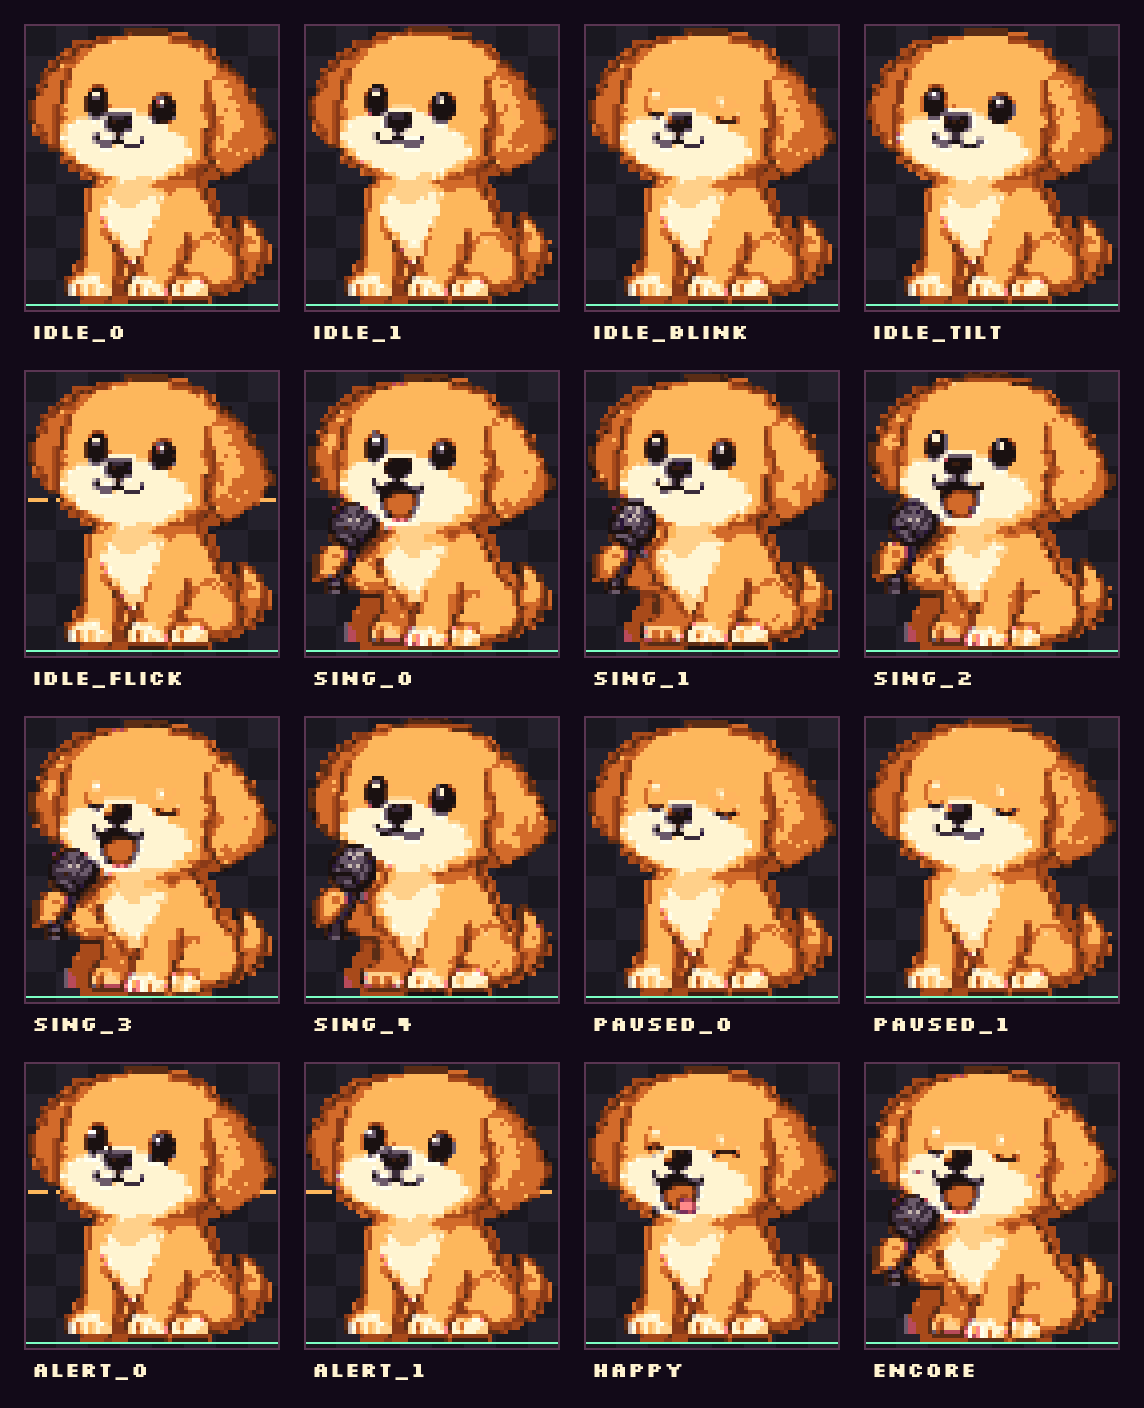
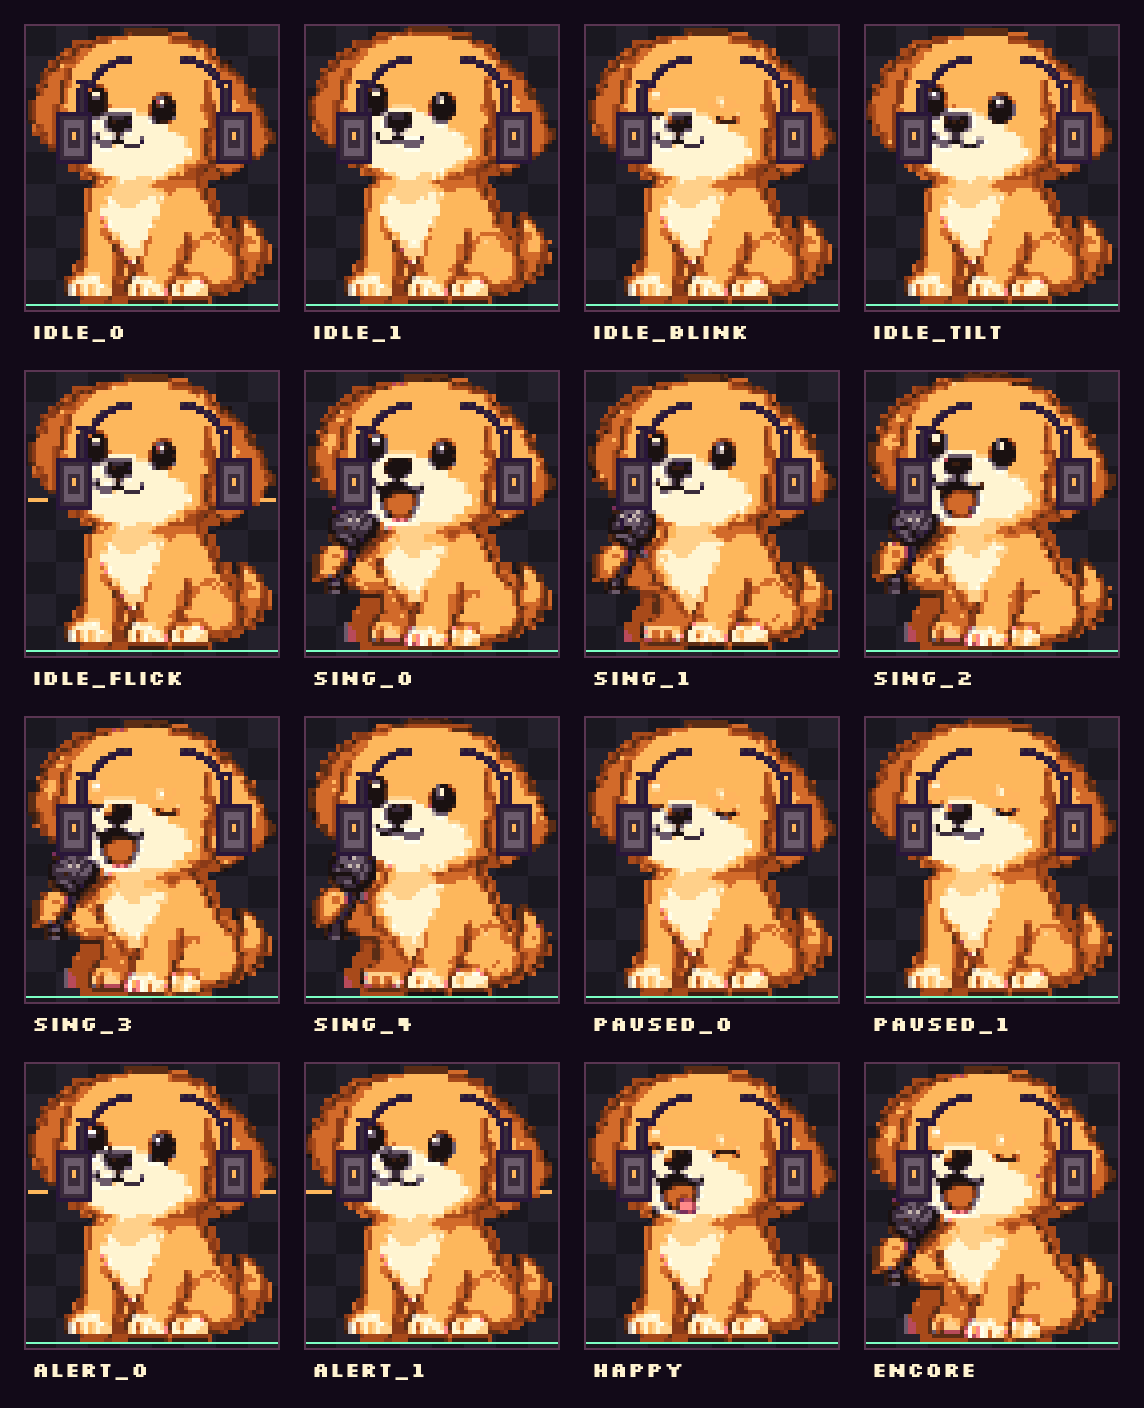
checkpoint 6b - art quality

diff --git a/source/scripts/generate_den_room_art.py b/source/scripts/generate_den_room_art.py
@@ -222,6 +222,30 @@ class Canvas:
             self.bayer_rect((x0, y0, x1, y1), INK, 0.28)
 
 
+def _leaf(c: Canvas, x: int, y: int, flip: int = 1) -> None:
+    """A tiny hard-edged leaf, never anti-aliased or semi-transparent."""
+    x0 = min(x, x + 3 * flip)
+    x1 = max(x, x + 3 * flip)
+    c.rect((x0, y, x1, y + 1), MINT_MID)
+    c.px(x0 + (1 if flip > 0 else 2), y, MINT_LIGHT)
+    c.px(x1 - (1 if flip > 0 else 0), y + 1, MINT_DARK)
+
+
+def _vine(c: Canvas, x: int, y: int, length: int, drift: int, seed: int) -> None:
+    """A stepped ivy strand with sparse leaves; stays on the pixel grid."""
+    for i in range(max(1, length)):
+        xx = int(round(x + math.sin(i * 0.30 + seed) * drift))
+        yy = y + i
+        c.px(xx, yy, MINT_DARK)
+        if i % 3 == 0:
+            c.px(xx + 1, yy, MINT_MID)
+        if i % 6 == 2:
+            side = 1 if (i // 6) % 2 == 0 else -1
+            _leaf(c, xx + (3 if side > 0 else -4), yy, side)
+        if i % 11 == 5:
+            c.px(xx + 2, yy + 1, MINT_LIGHT)
+
+
 def _build_room() -> Canvas:
     c = Canvas()
     d = c.d
@@ -283,10 +307,12 @@ def _build_room() -> Canvas:
     c.speckle(0, 186, 400, 250, ("#1B0D1F", "#4A2840", "#32182F"), 150, 7)
 
     # ── Three light sources: window, CRT, lamp ────────────────────────────────
-    c.light_pool(196, 92, 92, 64, BLUE_MID, 0.62, 0)
+    c.light_pool(200, 96, 98, 70, GOLD_DARK, 0.28, 0)
+    c.light_pool(204, 120, 84, 48, ORANGE_DARK, 0.16, 2)
     c.light_pool(68, 118, 52, 50, MINT_MID, 0.37, 1)
-    c.light_pool(276, 124, 34, 82, GOLD_DARK, 0.42, 2)
-    c.light_pool(276, 190, 32, 18, GOLD_DARK, 0.35, 3)
+    c.light_pool(276, 124, 38, 88, GOLD_MID, 0.44, 2)
+    c.light_pool(276, 190, 34, 20, GOLD_LIGHT, 0.28, 3)
+    c.light_pool(276, 72, 24, 22, GOLD_LIGHT, 0.20, 1)
 
     # ── City window ──────────────────────────────────────────────────────────
     c.contact_shadow(122, 130, 277, 136, "half")
@@ -300,56 +326,70 @@ def _build_room() -> Canvas:
             c.px(fx + 1, 40, FAB_LIGHT)
         c.rect((x0 - 1, 91, x0 + 10, 95), GOLD_MID)
         c.line([(x0 - 1, 91), (x0 + 10, 91)], GOLD_LIGHT)
-    # sky
-    c.rect((132, 39, 265, 126), BLUE_DARK)
-    for y in range(40, 127, 8):
-        c.rect((132, y, 265, y + 7), BLUE_MID if y > 70 else BLUE_DARK)
-    c.bayer_rect((132, 88, 265, 126), BLUE_LIGHT, 0.22)
-    # moon + stars: a stepped crescent with a sparse dithered halo
-    moon = ((252, 47), (254, 46), (256, 47), (258, 49), (259, 51),
-            (259, 54), (258, 57), (256, 59), (253, 60), (250, 59),
-            (248, 57), (247, 54), (247, 51))
-    for mx, my in moon:
-        c.px(mx, my, CREAM_LIGHT)
-    c.rect((253, 48, 257, 51), CREAM_LIGHT)
-    c.rect((255, 52, 258, 55), CREAM_LIGHT)
-    c.rect((254, 56, 256, 58), CREAM_MID)
-    c.rect((251, 52, 254, 57), BLUE_DARK)
-    c.rect((250, 54, 253, 57), BLUE_MID)
-    c.px(249, 53, CREAM_LIGHT)
-    c.checker((242, 42, 266, 66), CREAM_LIGHT, 0.055)
-    c.px(243, 61, CREAM_MID)
-    c.px(262, 63, MINT_LIGHT)
-    c.px(238, 49, CREAM_MID)
-    stars = ((141, 50), (154, 60), (167, 46), (185, 55), (198, 45),
-             (212, 59), (226, 48), (238, 70), (174, 69), (149, 80),
-             (195, 79), (218, 84), (257, 82))
-    for sx, sy in stars:
-        col = MINT_LIGHT if (sx + sy) % 3 == 0 else CREAM_MID
-        c.px(sx, sy, col)
-        if (sx + sy) % 4 == 0:
-            c.px(sx - 1, sy, col)
-            c.px(sx + 1, sy, col)
-            c.px(sx, sy - 1, col)
-            c.px(sx, sy + 1, col)
+    # Sunset sky: hard bands plus Bayer transitions, a low sun, and warm
+    # cloud ribbons. This is the room's main light source.
+    c.rect((132, 39, 265, 126), PURPLE_DARK)
+    bands = (
+        (39, 54, PURPLE_DARK, PURPLE_MID, 0.16),
+        (54, 68, PURPLE_MID, MAGENTA, 0.22),
+        (68, 80, MAGENTA, ORANGE_MID, 0.24),
+        (80, 92, ORANGE_MID, ORANGE_LIGHT, 0.30),
+        (92, 104, ORANGE_LIGHT, GOLD_LIGHT, 0.32),
+        (104, 116, GOLD_MID, ORANGE_MID, 0.26),
+        (116, 126, ORANGE_DARK, PURPLE_DARK, 0.20),
+    )
+    for y0, y1, base, warm, density in bands:
+        c.rect((132, y0, 265, y1 - 1), base)
+        c.bayer_rect((132, y0, 265, y1), warm, density, y0)
+    # A low sun just above the skyline, with a stepped halo.
+    sun_cx, sun_cy, sun_r = 200, 92, 8
+    for y in range(sun_cy - sun_r - 5, sun_cy + sun_r + 6):
+        for x in range(sun_cx - sun_r - 7, sun_cx + sun_r + 8):
+            dx = (x - sun_cx) / float(sun_r)
+            dy = (y - sun_cy) / float(sun_r)
+            dist = dx * dx + dy * dy
+            if dist <= 1.0:
+                c.px(x, y, CREAM_LIGHT if dist < 0.55 else GOLD_GLOW)
+            elif dist <= 2.4 and BAYER[(y + 1) % 4][(x + 2) % 4] / 15.0 < 0.38:
+                c.px(x, y, GOLD_LIGHT if dist < 1.8 else ORANGE_LIGHT)
+    # Cloud ribbons, broken so the sun reads through them.
+    for cy, col, hi in ((66, MAGENTA, ROSE_MID), (71, FAB_MID, ORANGE_MID),
+                        (77, MAGENTA, ORANGE_LIGHT), (101, ORANGE_MID, GOLD_LIGHT)):
+        start = 134 + ((cy * 7) % 12)
+        for x in range(start, 264, 3):
+            line_len = 2 + (x % 5)
+            if (x + cy) % 11 < 7:
+                c.line([(x, cy), (x + line_len, cy)], col)
+                if (x + cy) % 5 == 0:
+                    c.px(x + line_len, cy - 1, hi)
+    # A few birds or heat sparks, kept sparse.
+    for bx, by in ((158, 67), (166, 65), (236, 70)):
+        c.px(bx, by, INK)
+        c.px(bx + 1, by - 1, INK)
+        c.px(bx + 2, by, INK)
+    c.px(141, 48, CREAM_MID)
+    c.px(198, 51, GOLD_LIGHT)
     # layered skyline
-    far = ((134, 94, 146, 126), (148, 88, 158, 126), (160, 98, 174, 126),
-           (176, 84, 188, 126), (190, 92, 200, 126), (202, 100, 216, 126),
-           (218, 86, 232, 126), (234, 94, 248, 126), (250, 90, 264, 126))
-    mid = ((134, 107, 149, 126), (152, 101, 166, 126), (170, 112, 184, 126),
-           (188, 104, 202, 126), (206, 110, 222, 126), (226, 101, 242, 126),
-           (246, 107, 264, 126))
-    near = ((132, 116, 150, 126), (154, 112, 174, 126), (178, 118, 196, 126),
-            (200, 111, 220, 126), (224, 117, 242, 126), (246, 113, 264, 126))
+    far = ((134, 102, 146, 126), (148, 96, 158, 126), (160, 106, 174, 126),
+           (176, 92, 188, 126), (190, 100, 200, 126), (202, 108, 216, 126),
+           (218, 94, 232, 126), (234, 102, 248, 126), (250, 98, 264, 126))
+    mid = ((134, 111, 149, 126), (152, 105, 166, 126), (170, 116, 184, 126),
+           (188, 108, 202, 126), (206, 114, 222, 126), (226, 105, 242, 126),
+           (246, 111, 264, 126))
+    near = ((132, 118, 150, 126), (154, 114, 174, 126), (178, 120, 196, 126),
+            (200, 113, 220, 126), (224, 119, 242, 126), (246, 115, 264, 126))
     for x0, y0, x1, y1 in far:
-        c.rect((x0, y0, x1, y1), BLUE_MID)
-        c.line([(x0, y0), (x1, y0)], BLUE_LIGHT)
-    for x0, y0, x1, y1 in mid:
         c.rect((x0, y0, x1, y1), PURPLE_MID)
-        c.line([(x0, y0), (x1, y0)], PURPLE_LIGHT)
+        c.line([(x0, y0), (x1, y0)], MAGENTA)
+        c.px(x0, y0 + 2, ROSE_MID)
+    for x0, y0, x1, y1 in mid:
+        c.rect((x0, y0, x1, y1), FAB_DARK)
+        c.line([(x0, y0), (x1, y0)], ORANGE_MID)
+        c.px(x0, y0 + 2, MAGENTA)
     for x0, y0, x1, y1 in near:
-        c.rect((x0, y0, x1, y1), PURPLE_DARK)
-        c.line([(x0, y0), (x1, y0)], PURPLE_MID)
+        c.rect((x0, y0, x1, y1), INK)
+        c.line([(x0, y0), (x1, y0)], PURPLE_DARK)
+        c.px(x0, y0 + 2, PURPLE_MID)
     rng = random.Random(915)
     for x0, y0, x1, y1 in far + mid + near:
         for yy in range(y0 + 3, min(y1, 124), 7):
@@ -357,17 +397,18 @@ def _build_room() -> Canvas:
                 if rng.random() < 0.32:
                     c.px(xx, yy, GOLD_LIGHT if rng.random() < 0.6 else MINT_LIGHT)
     # antenna / water tower
-    c.line([(186, 84), (186, 76)], INK)
-    c.line([(183, 76), (189, 76)], INK)
-    c.rect((158, 78, 164, 88), PURPLE_MID)
-    c.rect((156, 75, 166, 79), PURPLE_LIGHT)
+    c.line([(186, 92), (186, 84)], INK)
+    c.line([(183, 84), (189, 84)], INK)
+    c.rect((158, 86, 164, 96), PURPLE_MID)
+    c.rect((156, 83, 166, 87), PURPLE_LIGHT)
     # rain streaks
     rain = random.Random(77)
-    for _ in range(44):
+    for _ in range(34):
         x = rain.randrange(135, 264)
         y = rain.randrange(42, 123)
         length = rain.choice((2, 3, 4))
-        col = BLUE_LIGHT if rain.random() < 0.55 else MINT_MID
+        roll = rain.random()
+        col = GOLD_LIGHT if roll < 0.45 else (ROSE_LIGHT if roll < 0.82 else MINT_MID)
         for i in range(length):
             c.px(x - i // 2, y + i, col)
     # window mullions
@@ -375,12 +416,12 @@ def _build_room() -> Canvas:
         c.rect((x, 38, x + 2, 130), WOOD_MID)
         c.line([(x, 38), (x, 130)], WOOD_LIGHT)
         c.line([(x + 2, 38), (x + 2, 130)], WOOD_DEEP)
-    c.rect((132, 83, 265, 85), WOOD_MID)
-    c.line([(132, 83), (265, 83)], WOOD_LIGHT)
+    c.rect((132, 80, 265, 82), WOOD_MID)
+    c.line([(132, 80), (265, 80)], WOOD_LIGHT)
     # glass glints
-    c.line([(137, 76), (147, 66)], MINT_GLOW)
-    c.line([(142, 76), (149, 69)], BLUE_LIGHT)
-    c.line([(246, 118), (258, 106)], BLUE_LIGHT)
+    c.line([(137, 76), (147, 66)], GOLD_GLOW)
+    c.line([(142, 76), (149, 69)], CREAM_MID)
+    c.line([(246, 118), (258, 106)], ROSE_LIGHT)
     # sill
     c.bevel((119, 127, 280, 137), WOOD_MID, WOOD_LIGHT, WOOD_DEEP, INK, 1, 1)
     c.line([(124, 131), (275, 131)], GOLD_DARK)
@@ -652,6 +693,41 @@ def _build_room() -> Canvas:
         c.px(155 + i * 4, 181, CREAM_MID)
 
     # ── Lived-in props (small, strong silhouettes, contact shadows) ──────────
+    # Front rug edge. The live room crop ends near y=188, so this band is the
+    # part of the nest that actually sits under the mascot on screen.
+    c.bevel((154, 176, 256, 188), FAB_DARK, RAMPS["fabric_hi"][2], PURPLE_DARK, INK, 1, 1)
+    c.rect((158, 179, 252, 186), FAB_MID)
+    for x in range(162, 252, 10):
+        c.rect((x, 181, x + 4, 182), GOLD_DARK)
+        c.rect((x + 3, 184, x + 7, 185), MINT_DARK)
+    for x in range(154, 257, 3):
+        c.px(x, 187, ROSE_DARK)
+    # A throw over the right arm of the nest catches the lamp light.
+    c.rect((230, 168, 243, 186), ROSE_DARK)
+    c.line([(231, 171), (242, 171)], GOLD_MID)
+    c.line([(232, 178), (241, 178)], ROSE_LIGHT)
+    c.line([(233, 184), (242, 184)], GOLD_DARK)
+    c.px(238, 174, GOLD_LIGHT)
+    # A little controller just right of the mascot's paws.
+    c.rect((228, 179, 242, 185), METAL_DARK)
+    c.rect((229, 180, 241, 184), METAL_MID)
+    c.rect((231, 181, 234, 182), ROSE_MID)
+    c.rect((236, 181, 239, 182), MINT_MID)
+    c.px(235, 182, INK)
+    c.px(240, 180, GOLD_LIGHT)
+    # Floor mic stand, angled toward the mascot. Kept clear of the sprite box.
+    c.contact_shadow(243, 185, 259, 189, "half")
+    c.rect((244, 185, 256, 188), METAL_DARK)
+    c.rect((246, 186, 254, 188), METAL_MID)
+    c.line([(249, 185), (249, 153)], METAL_LIGHT)
+    c.line([(250, 185), (250, 153)], METAL_DARK)
+    c.line([(249, 153), (245, 147)], METAL_LIGHT)
+    c.rect((241, 144, 249, 152), METAL_DARK)
+    c.rect((242, 145, 248, 151), METAL_MID)
+    c.rect((243, 146, 247, 150), MINT_DARK)
+    c.px(245, 147, MINT_LIGHT)
+    c.px(246, 149, CREAM_MID)
+
     # mug on the floor by the CRT
     c.contact_shadow(112, 183, 122, 186, "half")
     c.rect((112, 176, 120, 183), CREAM_MID)
@@ -710,6 +786,25 @@ def _build_room() -> Canvas:
         c.line([(254, 202 + i * 3), (264, 202 + i * 3)], CREAM_MID)
 
     # ── Final material / light polish ────────────────────────────────────────
+    # Ivy softens the hard furniture edges and ties the window to the nest.
+    _vine(c, 116, 58, 50, 3, 4)
+    _vine(c, 384, 58, 48, 2, 13)
+    _vine(c, 374, 66, 20, 2, 15)
+    for lx, ly in ((130, 60), (134, 58), (138, 62), (257, 60), (261, 63)):
+        _leaf(c, lx, ly, 1 if lx < 200 else -1)
+    # Warm window spill on the wall and the top of the nest.
+    c.bayer_rect((125, 128, 278, 186), GOLD_DARK, 0.055, 2)
+    c.bayer_rect((132, 128, 272, 160), ORANGE_DARK, 0.04, 1)
+    c.bayer_rect((306, 162, 384, 188), GOLD_DARK, 0.035, 2)
+    # A low LED strip under the shelf and a warm top rim on the panel.
+    for x in range(292, 376, 8):
+        c.px(x, 94, GOLD_LIGHT)
+        c.px(x + 2, 95, MINT_LIGHT)
+        c.px(x + 1, 96, GOLD_DARK)
+    c.line([(294, 110), (372, 110)], GOLD_DARK)
+    c.line([(294, 111), (304, 111)], GOLD_LIGHT)
+    c.line([(348, 111), (372, 111)], GOLD_LIGHT)
+
     # wood grain runs
     c.wood_grain(25, 145, 121, 152, WOOD_DEEP, WOOD_LIGHT, 3)
     c.wood_grain(286, 39, 379, 102, WOOD_DEEP, WOOD_LIGHT, 4)

diff --git a/source/scripts/generate_puppy_animation.py b/source/scripts/generate_puppy_animation.py
@@ -267,6 +267,40 @@ def _downsample(master: Image.Image) -> Image.Image:
     return rgb
 
 
+def _add_headphones(img: Image.Image) -> Image.Image:
+    """Add the room mascot's signature hard-edged headphones.
+
+    The overlay is applied after downsampling so the cups stay aligned to the
+    final 64x72 grid. It uses only the existing 19-colour puppy ramp.
+    """
+    d = ImageDraw.Draw(img)
+    # A low band that leaves the top tuft visible.
+    band = (
+        (16, 14), (17, 12), (18, 11), (19, 10), (21, 9), (23, 8), (25, 8),
+        (39, 8), (41, 8), (43, 9), (45, 10), (46, 11), (47, 12), (48, 14),
+    )
+    for x, y in band:
+        d.rectangle((x, y, x + 1, y + 1), fill=MIC_DARK)
+    for x, y in band:
+        d.point((x, y), fill=MIC_MID)
+    # Side arms connecting the band to the cups.
+    d.rectangle((13, 14, 15, 23), fill=MIC_DARK)
+    d.rectangle((14, 15, 14, 22), fill=MIC_MID)
+    d.rectangle((49, 14, 51, 23), fill=MIC_DARK)
+    d.rectangle((50, 15, 50, 22), fill=MIC_MID)
+    d.point((13, 15), fill=GOLD)
+    d.point((50, 15), fill=GOLD)
+    # Over-ear cups with a metal ring and a gold hinge.
+    for x0 in (8, 48):
+        d.rectangle((x0, 22, x0 + 8, 34), fill=MIC_DARK)
+        d.rectangle((x0 + 1, 23, x0 + 7, 33), fill=MIC_MID)
+        d.rectangle((x0 + 2, 24, x0 + 6, 32), fill=MIC_LIGHT)
+        d.rectangle((x0 + 3, 26, x0 + 5, 30), fill=MIC_MID)
+        d.point((x0 + 4, 27), fill=GOLD)
+        d.point((x0 + 4, 28), fill=GOLD)
+    return img
+
+
 def build_frames() -> dict[str, Image.Image]:
     idle = _load_base("idle")
     sing = _load_base("sing")
@@ -422,7 +456,10 @@ def build_contact_sheet(frames: dict[str, Image.Image]) -> None:
 
 def main() -> None:
     master_frames = build_frames()
-    frames = {name: _downsample(img) for name, img in master_frames.items()}
+    frames = {
+        name: _add_headphones(_downsample(img))
+        for name, img in master_frames.items()
+    }
     OUT.mkdir(parents=True, exist_ok=True)
     bottoms = {}
     for name, img in frames.items():

diff --git a/source/ui/app.py b/source/ui/app.py
@@ -2252,14 +2252,14 @@ class GameBeatsApp:
             })
 
         rain = []
-        for i in range(10):
+        for i in range(9):
             pane = ROOM_WINDOW_PANES[i % len(ROOM_WINDOW_PANES)]
             pane_w = max(1, pane[2] - pane[0] - 1)
             pane_h = max(1, pane[3] - pane[1] - 3)
             bx = pane[0] + (i * 7) % pane_w
             by = pane[1] + (i * 11) % pane_h
             item = canvas.create_rectangle(
-                0, 0, 1, 1, fill=(ROSE, CREAM, MINT)[i % 3],
+                0, 0, 1, 1, fill=(GOLD, ROSE, CREAM)[i % 3],
                 outline="", tags=("ambient", "ambient_motion", "rain"),
             )
             rain.append({
